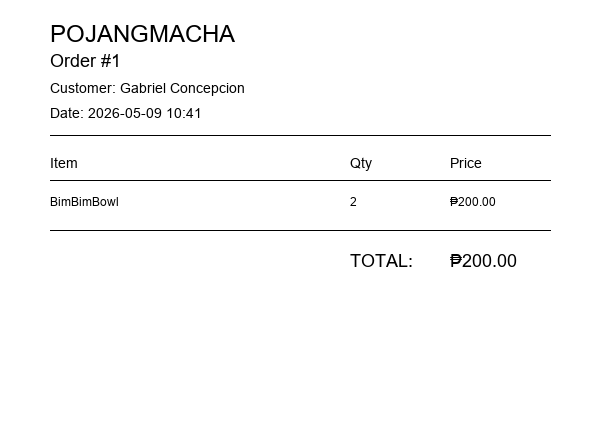
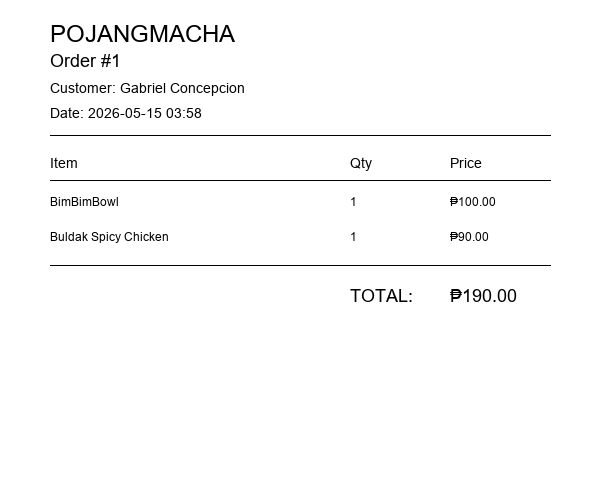
Prepare app for Azure deployment

diff --git a/ui/admin_food_items.py b/ui/admin_food_items.py
@@ -4,6 +4,7 @@ Food Items Management Tab for Admin Panel
 import flet as ft
 from models.food_item import FoodItem
 from models.audit_log import AuditLog
+from services.blob_service import upload_food_image
 from ui.admin_constants import (
     CATEGORIES, DESKTOP_COLUMNS,
     GRID_SPACING, GRID_RUN_SPACING
@@ -159,26 +160,31 @@ def build_food_items_tab(page: ft.Page, db, user_data: dict, is_desktop: bool):
 
         def on_file_pick(e: ft.FilePickerResultEvent):
             if e.files:
-                import shutil
                 src = e.files[0].path
-                upload_dir = "assets/uploads/foods"
-                os.makedirs(upload_dir, exist_ok=True)
-                filename = os.path.basename(src)
-                dest = os.path.join(upload_dir, filename)
-                
+
+                if not src:
+                    return
+
                 try:
-                    shutil.copy(src, dest)
-                    uploaded_image_path["value"] = dest
-                    
-                    image_preview.content = ft.Image(
-                        src=dest,
-                        width=300,
-                        height=120,
-                        fit=ft.ImageFit.COVER,
-                        border_radius=8
-                    )
-                    
-                    page.update()
+                    image_url = upload_food_image(src)
+
+                    if image_url:
+                        uploaded_image_path["value"] = image_url
+
+                        image_preview.content = ft.Image(
+                            src=image_url,
+                            width=300,
+                            height=120,
+                            fit=ft.ImageFit.COVER,
+                            border_radius=8
+                        )
+
+                        page.update()
+                    else:
+                        message.value = "Failed to upload image"
+                        message.color = "red"
+                        page.update()
+
                 except Exception as ex:
                     message.value = f"Error: {ex}"
                     message.color = "red"
@@ -284,7 +290,7 @@ def build_food_items_tab(page: ft.Page, db, user_data: dict, is_desktop: bool):
         
         uploaded_image_path = {"value": item.image or ""}
         
-        if item.image and os.path.exists(item.image):
+        if item.image:
             image_preview = ft.Container(
                 content=ft.Image(
                     src=item.image,
@@ -311,27 +317,30 @@ def build_food_items_tab(page: ft.Page, db, user_data: dict, is_desktop: bool):
 
         def on_file_pick(e: ft.FilePickerResultEvent):
             if e.files:
-                import shutil
                 src = e.files[0].path
-                upload_dir = "assets/uploads/foods"
-                os.makedirs(upload_dir, exist_ok=True)
-                filename = os.path.basename(src)
-                dest = os.path.join(upload_dir, filename)
-                
+                if not src:
+                    return
+
                 try:
-                    shutil.copy(src, dest)
-                    uploaded_image_path["value"] = dest
-                    
-                    image_preview.content = ft.Image(
-                        src=dest,
-                        width=300,
-                        height=120,
-                        fit=ft.ImageFit.COVER,
-                        border_radius=8
-                    )
-                    
-                    
-                    page.update()
+                    image_url = upload_food_image(src)
+
+                    if image_url:
+                        uploaded_image_path["value"] = image_url
+
+                        image_preview.content = ft.Image(
+                            src=image_url,
+                            width=300,
+                            height=120,
+                            fit=ft.ImageFit.COVER,
+                            border_radius=8
+                        )
+
+                        page.update()
+                    else:
+                        message.value = "Failed to upload image"
+                        message.color = "red"
+                        page.update()
+
                 except Exception as ex:
                     message.value = f"Error: {ex}"
                     message.color = "red"

diff --git a/services/blob_service.py b/services/blob_service.py
@@ -1,0 +1,67 @@
+from dotenv import load_dotenv
+from azure.storage.blob import BlobServiceClient
+import os
+import uuid
+import logging
+
+load_dotenv()
+
+# Configure logging
+logging.basicConfig(level=logging.INFO)
+logger = logging.getLogger(__name__)
+
+connection_string = os.getenv("AZURE_STORAGE_CONNECTION_STRING")
+container_name = os.getenv("AZURE_STORAGE_CONTAINER")
+
+# Validate environment variables
+if not connection_string:
+    logger.error("AZURE_STORAGE_CONNECTION_STRING not set in .env")
+if not container_name:
+    logger.error("AZURE_STORAGE_CONTAINER not set in .env")
+
+def upload_food_image(file_path):
+    """
+    Upload food image to Azure Blob Storage
+    
+    Args:
+        file_path: Path to the image file
+        
+    Returns:
+        str: Image URL if successful, None if failed
+        
+    Raises:
+        ValueError: If Azure credentials are missing
+    """
+    
+    # Validate inputs
+    if not connection_string:
+        raise ValueError("AZURE_STORAGE_CONNECTION_STRING is not configured")
+    if not container_name:
+        raise ValueError("AZURE_STORAGE_CONTAINER is not configured")
+    if not file_path or not os.path.exists(file_path):
+        raise ValueError(f"File not found: {file_path}")
+    
+    try:
+        # Initialize client
+        blob_service_client = BlobServiceClient.from_connection_string(connection_string)
+        
+        # Generate unique filename
+        filename = f"{uuid.uuid4()}_{os.path.basename(file_path)}"
+        
+        # Get blob client
+        blob_client = blob_service_client.get_blob_client(
+            container=container_name,
+            blob=filename
+        )
+        
+        # Upload file
+        with open(file_path, "rb") as data:
+            blob_client.upload_blob(data, overwrite=True)
+        
+        logger.info(f"Successfully uploaded: {filename}")
+        return blob_client.url
+        
+    except Exception as e:
+        error_msg = f"Blob upload error: {str(e)}"
+        logger.error(error_msg)
+        raise Exception(error_msg)

diff --git a/models/user.py b/models/user.py
@@ -7,15 +7,15 @@ class User(Base):
     __tablename__ = "users"
     
     id = Column(Integer, primary_key=True, index=True)
-    full_name = Column(String, nullable=False)
-    email = Column(String, unique=True, nullable=False, index=True)
-    password_hash = Column(String, nullable=False)
-    phone = Column(String, default="")
-    role = Column(String, default="customer")
+    full_name = Column(String(255), nullable=False)
+    email = Column(String(255), unique=True, nullable=False)
+    password_hash = Column(String(255), nullable=False)
+    phone = Column(String(20), default="")
+    role = Column(String(50), default="customer")
     two_fa_enabled = Column(Boolean, default=False)
-    two_fa_backup_codes = Column(String, nullable=True)
-    google_id = Column(String, unique=True, nullable=True)
-    profile_picture = Column(String, nullable=True)
+    two_fa_backup_codes = Column(String(255), nullable=True)
+    google_id = Column(String(255), nullable=True)
+    profile_picture = Column(String(255), nullable=True)
     created_at = Column(DateTime, default=datetime.utcnow)
     
     # Relationships

diff --git a/main.py b/main.py
@@ -40,6 +40,10 @@ DESKTOP_MIN_WIDTH = 1000
 DESKTOP_MIN_HEIGHT = 700
 BREAKPOINT = 800
 
+from services.blob_service import connection_string, container_name
+
+
+
 def main(page: ft.Page):
     page.window.width = MOBILE_WIDTH
     page.window.height = MOBILE_HEIGHT
@@ -51,6 +55,9 @@ def main(page: ft.Page):
     page.title = "Pojangmacha"
     page.horizontal_alignment = ft.CrossAxisAlignment.CENTER
     page.vertical_alignment = ft.MainAxisAlignment.START
+    
+    print(f"✓ Storage Connection: {'Loaded' if connection_string else 'MISSING'}")
+    print(f"✓ Container Name: {container_name or 'MISSING'}")
 
     if not page.session.contains_key("user"):
         page.session.set("user", None)
@@ -428,4 +435,13 @@ def main(page: ft.Page):
     page.go("/")
 
 if __name__ == "__main__":
-    ft.app(target=main, port=8000)
+    ft.app(
+    target=main
+)
+#     ft.app(
+#     target=main,
+#     port=int(os.environ.get("PORT", 8000)),
+#     view=ft.WEB_BROWSER
+# )
+    
+#     ft.app(target=main, port=int(os.environ.get("PORT", 8000)), view=ft.AppView.FLET_APP)

diff --git a/core/db.py b/core/db.py
@@ -12,7 +12,12 @@ DATABASE_URL = os.getenv("DATABASE_URL", "sqlite:///pojangmacha.db")
 connect_args = {"check_same_thread": False} if DATABASE_URL.startswith("sqlite") else {}
 
 # Create engine (fu ture mode)
-engine = create_engine(DATABASE_URL, future=True, connect_args=connect_args)
+engine = create_engine(
+    DATABASE_URL,
+    future=True,
+    connect_args=connect_args,
+    pool_pre_ping=True
+)
 
 # SessionLocal factory: expire_on_commit=False avoids needing refresh() in many places
 SessionLocal = sessionmaker(bind=engine, autoflush=False, autocommit=False, expire_on_commit=False, future=True)

diff --git a/models/login_attempt.py b/models/login_attempt.py
@@ -6,8 +6,8 @@ class LoginAttempt(Base):
     __tablename__ = "login_attempts"
     
     id = Column(Integer, primary_key=True, index=True)
-    email = Column(String, index=True, nullable=False)
-    ip_address = Column(String, nullable=True)
+    email = Column(String(255), index=True, nullable=False)
+    ip_address = Column(String(255), nullable=True)
     success = Column(Boolean, default=False)
     attempt_time = Column(DateTime, default=datetime.utcnow)
     locked_until = Column(DateTime, nullable=True)
